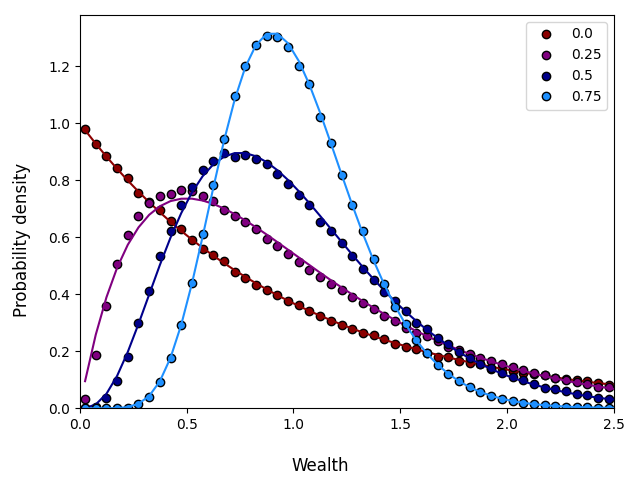
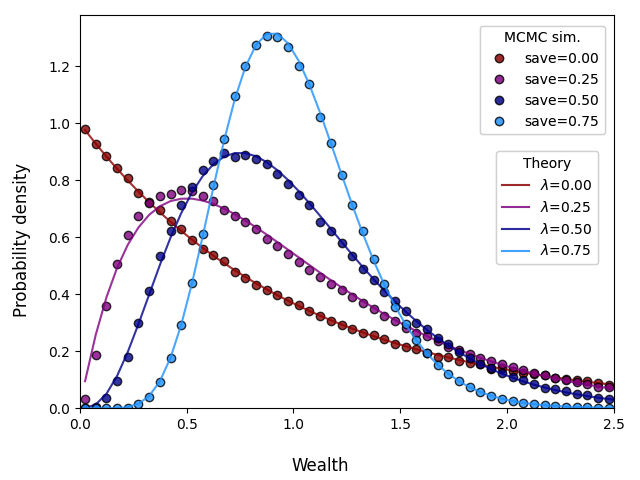
update plots

diff --git a/wealth_distribution_MC.py b/wealth_distribution_MC.py
@@ -124,6 +124,9 @@ if __name__ == '__main__':
     import contextlib
     import joblib
 
+    plt.rc('text', usetex=True)
+    plt.rc('font', family='serif')
+
     # hyperparameters for MCMC run
     num_runs = 1000
     n_jobs = -2
@@ -186,7 +189,7 @@ if __name__ == '__main__':
 
         # generate and plot histograms
         count, bins, _ = a.hist(agent_wealth.flatten(), bins=hist_bins, 
-                        label=save_percent, color=c, zorder=z)
+                        label=save_percent, color=c, zorder=z, alpha=0.8)
         a.legend()
         a.set_yscale('log')
         a.set_xlim(0,12)
@@ -194,8 +197,8 @@ if __name__ == '__main__':
                                     color=c, density=True, stacked=True, zorder=z)
         bin_centers = bins[:-1] + 0.5*bin_size
         m_avg = np.sum(agent_runs[:,:,0])/(num_runs*num_agents)
-        ax.plot(bin_centers, count, 'o', c=c, mec='black', label=save_percent)
-        ax.plot(bin_centers, extended_Gibbs_dist(bin_centers/m_avg,save_percent), c=c)
+        ax.plot(bin_centers, count, 'o', c=c, mec='black', alpha=0.8)
+        ax.plot(bin_centers, extended_Gibbs_dist(bin_centers/m_avg,save_percent), c=c, alpha=0.8)
 
         #plot correlation coefficient between number of transactions and wealth
         correlation_coef = np.corrcoef(agent_wealth.flatten(), agent_transactions.flatten())[0,1]
@@ -203,7 +206,17 @@ if __name__ == '__main__':
 
     # set final figure params
     ax.set_xlim(0,2.5)
-    ax.legend()
+    lines = ax.get_lines()
+    rangey = np.arange(2*len(save_percent_list))
+    legend1 = fig_pdf.legend([lines[i] for i in rangey[::2]], 
+                            [f'save={s:.2f}' for s in save_percent_list], 
+                            loc=(0.75,0.72), title='MCMC sim.')
+    legend2 = fig_pdf.legend([lines[i] for i in rangey[1::2]], 
+                            [f'$\lambda$={s:.2f}' for s in save_percent_list], 
+                            loc=(0.775,0.45), title='Theory')
+    ax.add_artist(legend1)
+    ax.add_artist(legend2)
+    #ax.legend()
     fig_pdf.supylabel('Probability density')
     fig_pdf.supxlabel('Wealth')
     fig_hist.supxlabel('Wealth')
